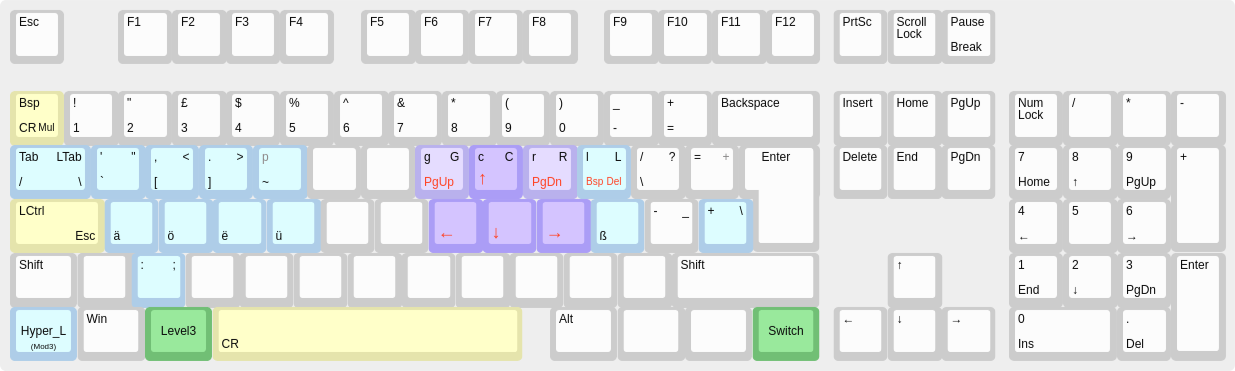
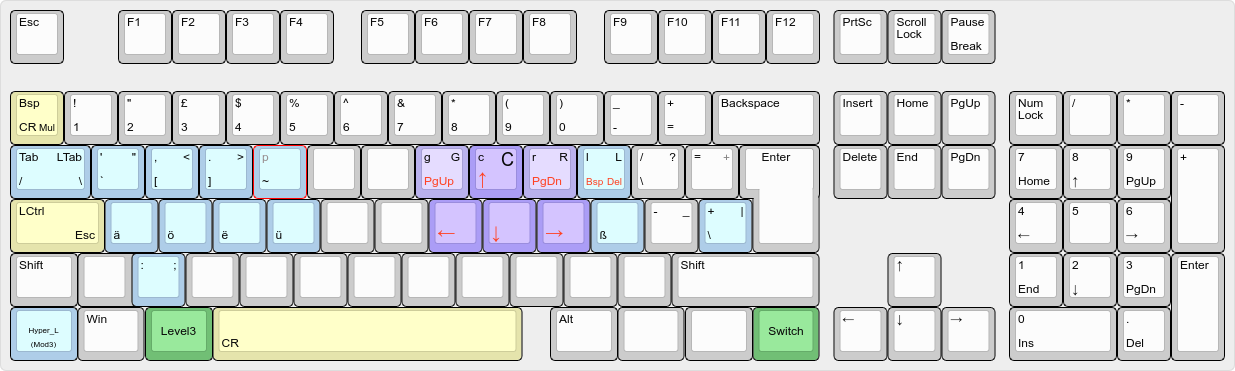
Add brackets and bar; update picture

diff --git a/own_layouts/v6.cpp b/own_layouts/v6.cpp
@@ -3,7 +3,6 @@
 default  partial alphanumeric_keys modifier_keys
 xkb_symbols   "sh" {
 
-	// TODO PARENTHESES
 
 	name[Group1] = "SH Custom layout";
 	name[Group2] = "Test mirrorboard layout";
@@ -99,8 +98,9 @@ xkb_symbols   "sh" {
 	key <AB09> { [	    v,	V		]	};
 	key <AB10> { [	    z,	Z		]	};
 
-	// +\|? - the key that by default has only backslash+bar
-	key <BKSL> { [  plus,  backslash, NoSymbol, NoSymbol             ]       };
+	// +|\? - the key that by default has only backslash+bar
+	
+	key <BKSL> { [  plus,  bar, backslash, NoSymbol             ]       };
 
 
 	key <AE06> {	[	  6,	asciicircum	]	};
